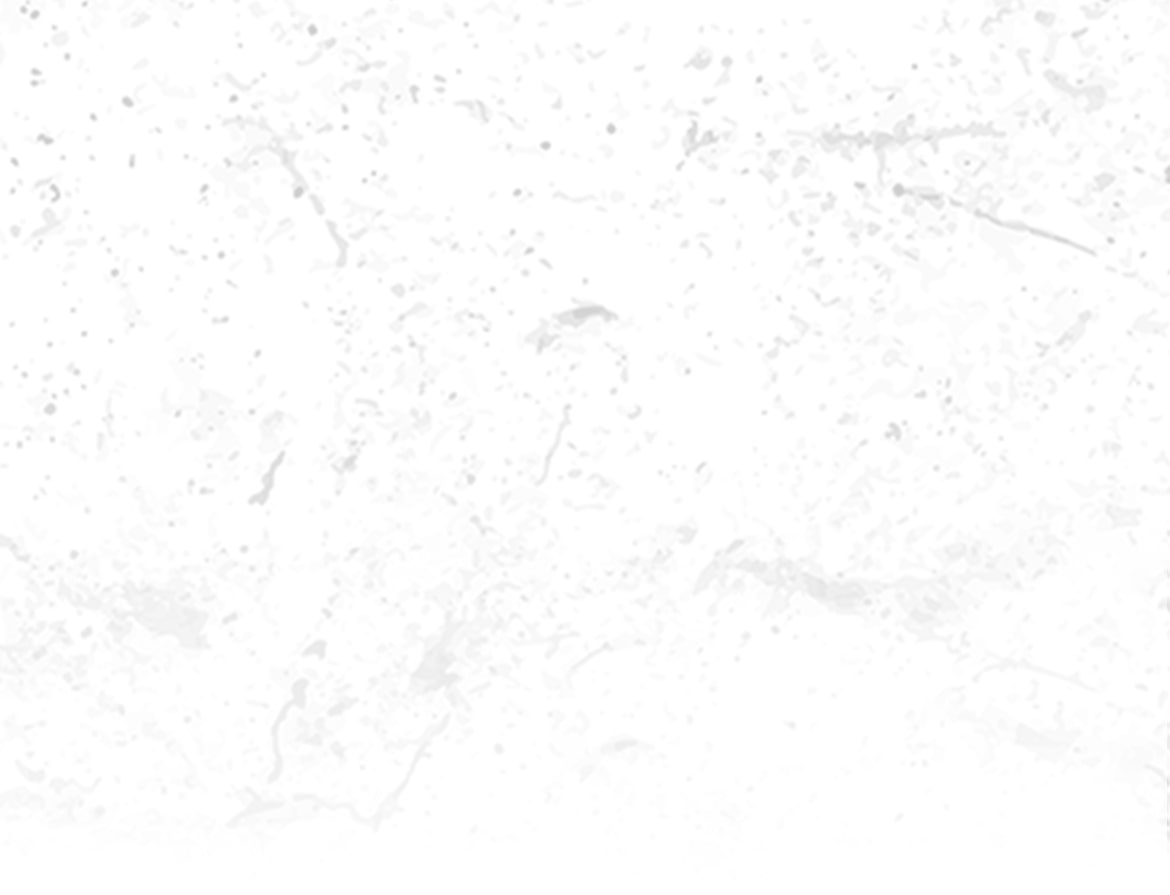
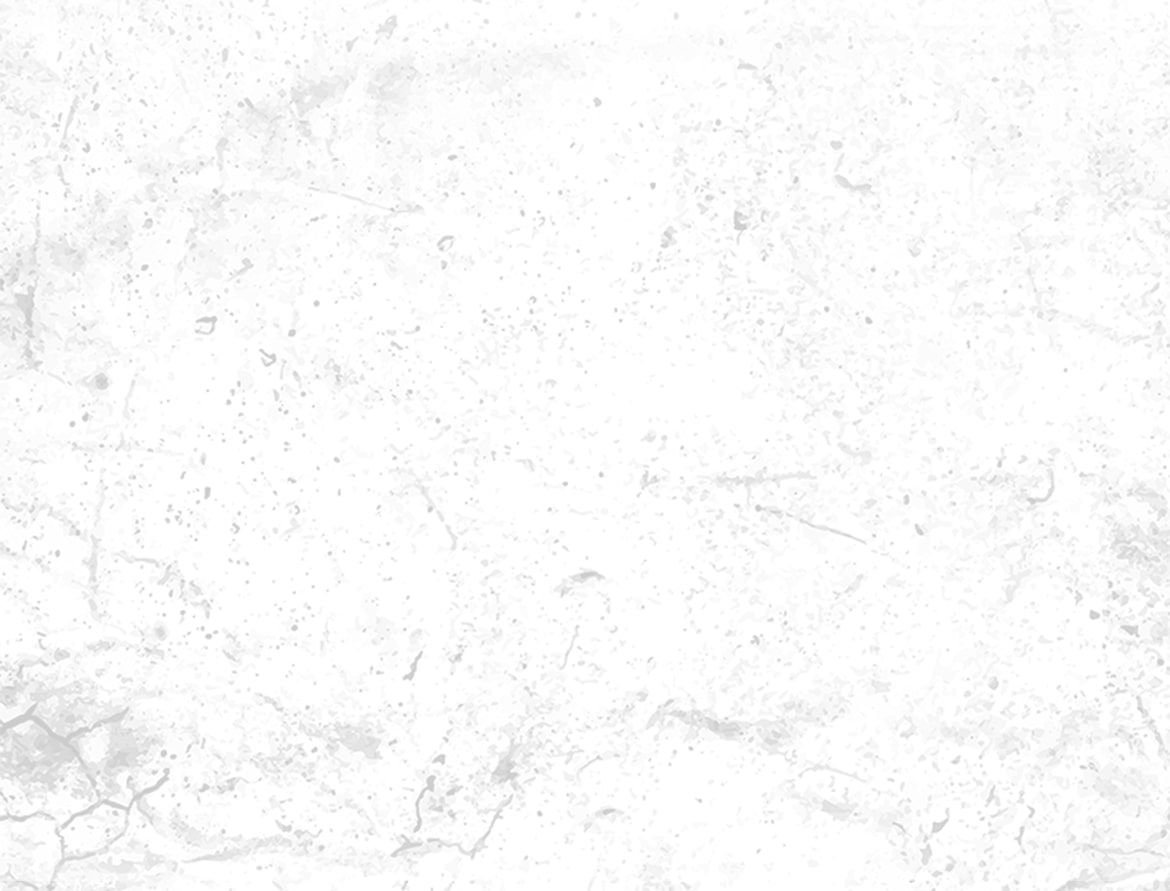
add text to faq sections

diff --git a/app/index.html b/app/index.html
@@ -199,9 +199,10 @@
 
 			<div class="col-lg-6 border-bottom">
 				<ul>
-					<li>Сможете….,</li>
-					<li>Узнаете</li>
-					<li>Научитесь</li>
+					<li>Вы сможете смело подходить к цветовым сочетаниям</li>
+					<li>Осознаете, какие цвета идут вам больше всего</li>
+					<li>Сможете цветом подчеркнуть вашу уникальность, ваши таланты, вашу экспертность</li>
+					<li>Вы узнаете, как применять цвета для важных моментов жизни и тем самым преобразите ее и привнесете новые краски в значимые для вас события</li>
 				</ul>
 			</div>
 
@@ -215,11 +216,10 @@
 			</div>
 
 			<div class="col-lg-6 border-bottom">
-				<p>Преимущества этого варианта участия</p>
 				<ul>
-					<li>Сможете сочетать цвета для эффективной работы в соц сетях и быстро монетизировать</li>
-					<li> </li>
-					<li> </li>
+					<li>Вы сможете гармонично сочетать цвета для максимально эффективного позиционирования в социальных сетях</li>
+					<li>Повысите вашу экспертность до уровня высокого профессионала в глазах вашей аудитории, благодаря чему увеличите поток клиентов в ваши обучающие программы</li>
+					<li>Вы сможете на более высоком уровне монетизировать ваш бренд и выйдете внеконкурентное пространство благодаря вашему новому яркому имиджу</li>
 				</ul>
 			</div>
 
@@ -233,18 +233,10 @@
 			</div>
 			
 			<div class="col-lg-6">
-				<p>Преимущества этого варианта участия. Благодаря моей консультации Вы сможете</p>
 				<ul>
-					<li> </li>
-					<li> </li>
-					<li> </li>
-				</ul>
-				<p>А так же получите<br>!!!!!!<br>Чек лист «ТОП 10 эффективных составляющих бренда», которые помогут Вам:</p>
-				<ul>
-					<li>Уверенно смотреться на камеру</li>
-					<li>Выглядеть дорого</li>
-					<li>Своим видом привлекать только лучших и платежеспособных клиентов.</li>
-					<li>Удвоить чеки на ваши услуги.</li>
+					<li>Вы сможете усилить уже существующий бренд, внести в него новых красок и изюминки, благодаря чему он зазвучит более выигрышно. С небольшими изменениями, но кардинально преобразиться</li>
+					<li>Вы сможете цветом подчеркнуть высокое качество вашего бренда и усилить вашу репутацию</li>
+					<li>Вы получите эксклюзивную огранку вашего образа благодаря  филигранной работе над вашим позиционированием, с учетом ваших сильных и слабых сторон, что позволит вам выйти в голубой океан VIP-услуг</li>
 				</ul>
 			</div>
 
@@ -519,7 +511,7 @@
 				</div>
 				<div class="row faq-answer">
 					<div class="col-10 offset-1">
-						<p class="">Lorem ipsum dolor sit amet, consectetur adipisicing elit. Esse quos ad, molestias officia numquam totam vitae, hic, saepe, quia ex voluptatibus minima ea nesciunt veritatis maiores itaque velit animi minus.</p>
+						<p class="">К сожалению &mdash; нет, потому что сумма небольшая.</p>
 					</div>
 				</div>
 			</div>
@@ -540,7 +532,7 @@
 				</div>
 				<div class="row faq-answer"> 
 					<div class="col-10 offset-1">
-						<p class="">Lorem ipsum dolor sit amet, consectetur adipisicing elit. Esse quos ad, molestias officia numquam totam vitae, hic, saepe, quia ex voluptatibus minima ea nesciunt veritatis maiores itaque velit animi minus.</p>
+						<p class="">Трансляции будут проводиться в Facebook по понедельникам, средам и пятницам.</p>
 					</div>
 				</div>
 			</div>
@@ -561,7 +553,7 @@
 				</div>
 				<div class="row faq-answer"> 
 					<div class="col-10 offset-1">
-						<p class="">Lorem ipsum dolor sit amet, consectetur adipisicing elit. Esse quos ad, molestias officia numquam totam vitae, hic, saepe, quia ex voluptatibus minima ea nesciunt veritatis maiores itaque velit animi minus.</p>
+						<p class="">В варианте “Старт” есть возможность участвовать в прямых эфирах и задавать мне вопросы. В варианте “Базовый” вы получите записи марафона, чек-листы и бонусы. А также 3 дня марафона в приватной обстановке в закрытом скайп-чате, где мы персонально проанализируем Радужную матрицу и я дам вам личные рекомендации. В варианте “VIP” помимо выше сказанного, вы получите возможность поработать со мной лично на консультации, на которой мы создадим вам один уникальный лук для позиционирования.</p>
 					</div>
 				</div>
 			</div>
@@ -582,7 +574,7 @@
 				</div>
 				<div class="row faq-answer"> 
 					<div class="col-10 offset-1">
-						<p class="">Lorem ipsum dolor sit amet, consectetur adipisicing elit. Esse quos ad, molestias officia numquam totam vitae, hic, saepe, quia ex voluptatibus minima ea nesciunt veritatis maiores itaque velit animi minus.</p>
+						<p class="">Да, в этом случае марафон вам будет полезен вдвойне. Во-первых, вы как профессионал, сможете повысить квалификацию благодарям моим авторским технологиям. Во-вторых, вам будет проще сразу применять это на практике и внедрять в вашу проф.деятельность, как стилисту, благодаря чему вы сможете подчеркивать индивидуальность образов ваших клиентов более утонченно и высокопрофессионально.</p>
 					</div>
 				</div>
 			</div>
@@ -603,7 +595,7 @@
 				</div>
 				<div class="row faq-answer"> 
 					<div class="col-10 offset-1">
-						<p class="">Lorem ipsum dolor sit amet, consectetur adipisicing elit. Esse quos ad, molestias officia numquam totam vitae, hic, saepe, quia ex voluptatibus minima ea nesciunt veritatis maiores itaque velit animi minus.</p>
+						<p class="">В формате данного мероприятия это самый оптимальный вариант. В других программах мы прорабатываем большее количество цветов с учетов ваших индивидуальных особенностей. Но данные 7 цветов &mdash; это базис любого гардероба, а также инструмент управления энергией вашего стиля.</p>
 					</div>
 				</div>
 			</div>
@@ -624,7 +616,7 @@
 				</div>
 				<div class="row faq-answer"> 
 					<div class="col-10 offset-1">
-						<p class="">Lorem ipsum dolor sit amet, consectetur adipisicing elit. Esse quos ad, molestias officia numquam totam vitae, hic, saepe, quia ex voluptatibus minima ea nesciunt veritatis maiores itaque velit animi minus.</p>
+						<p class="">Да, конечно, стоит. Это увлекательная техника, которая не оставит вас равнодушным и поможет в развитии ваших творческих способностей. Вы сможете применять эти технологии в разных областях, не только в построении образов одежды. Благодаря марафону вы активировать свой потенциал и дать возможность вашему внутреннему художнику сделать жизнь более яркой, новой и увлекательной.</p>
 					</div>
 				</div>
 			</div>
@@ -645,7 +637,7 @@
 				</div>
 				<div class="row faq-answer"> 
 					<div class="col-10 offset-1">
-						<p class="">Lorem ipsum dolor sit amet, consectetur adipisicing elit. Esse quos ad, molestias officia numquam totam vitae, hic, saepe, quia ex voluptatibus minima ea nesciunt veritatis maiores itaque velit animi minus.</p>
+						<p class="">Да, только для вариантов участия “Базовый” и “VIP”.</p>
 					</div>
 				</div>
 			</div>
@@ -666,7 +658,7 @@
 				</div>
 				<div class="row faq-answer"> 
 					<div class="col-10 offset-1">
-						<p class="">Lorem ipsum dolor sit amet, consectetur adipisicing elit. Esse quos ad, molestias officia numquam totam vitae, hic, saepe, quia ex voluptatibus minima ea nesciunt veritatis maiores itaque velit animi minus.</p>
+						<p class="">Ежедневно  на задания у вас будет уходить 1 час. Если вас захватит этот процесс, то, возможно, и больше, потому что вы будете жить на радуге, а это прекрасно!</p>
 					</div>
 				</div>
 			</div>
@@ -687,7 +679,7 @@
 				</div>
 				<div class="row faq-answer"> 
 					<div class="col-10 offset-1">
-						<p class="">Lorem ipsum dolor sit amet, consectetur adipisicing elit. Esse quos ad, molestias officia numquam totam vitae, hic, saepe, quia ex voluptatibus minima ea nesciunt veritatis maiores itaque velit animi minus.</p>
+						<p class="">Да, потому в этом случае вы сможете добавить в вашу жизнь больше красок, комфорта, легкости и уверенности в себе.</p>
 					</div>
 				</div>
 			</div>

diff --git a/app/sass/main.sass b/app/sass/main.sass
@@ -192,6 +192,12 @@ body
 		z-index: 100
 
 #reviews-section
+	padding: 0
+	background-image: url('../img/_src/screen-7-bgr.jpg')
+	background-position: right
+	background-repeat: no-repeat
+	width: auto
+	height: 735px
 	p
 		&:first-child
 			margin-top: 10px
@@ -289,7 +295,7 @@ body
 	background-position: right
 	background-repeat: no-repeat
 	width: auto
-	height: 895px
+	height: 891px
 	.img-frame
 		margin-left: 30px
 	.img-frame-last
@@ -308,7 +314,7 @@ body
 	background-position: center
 	background-repeat: no-repeat
 	width: auto
-	height: 844px
+	height: 849px
 	h2
 		font-size: 28px
 		font-family: $din-pro-bold
